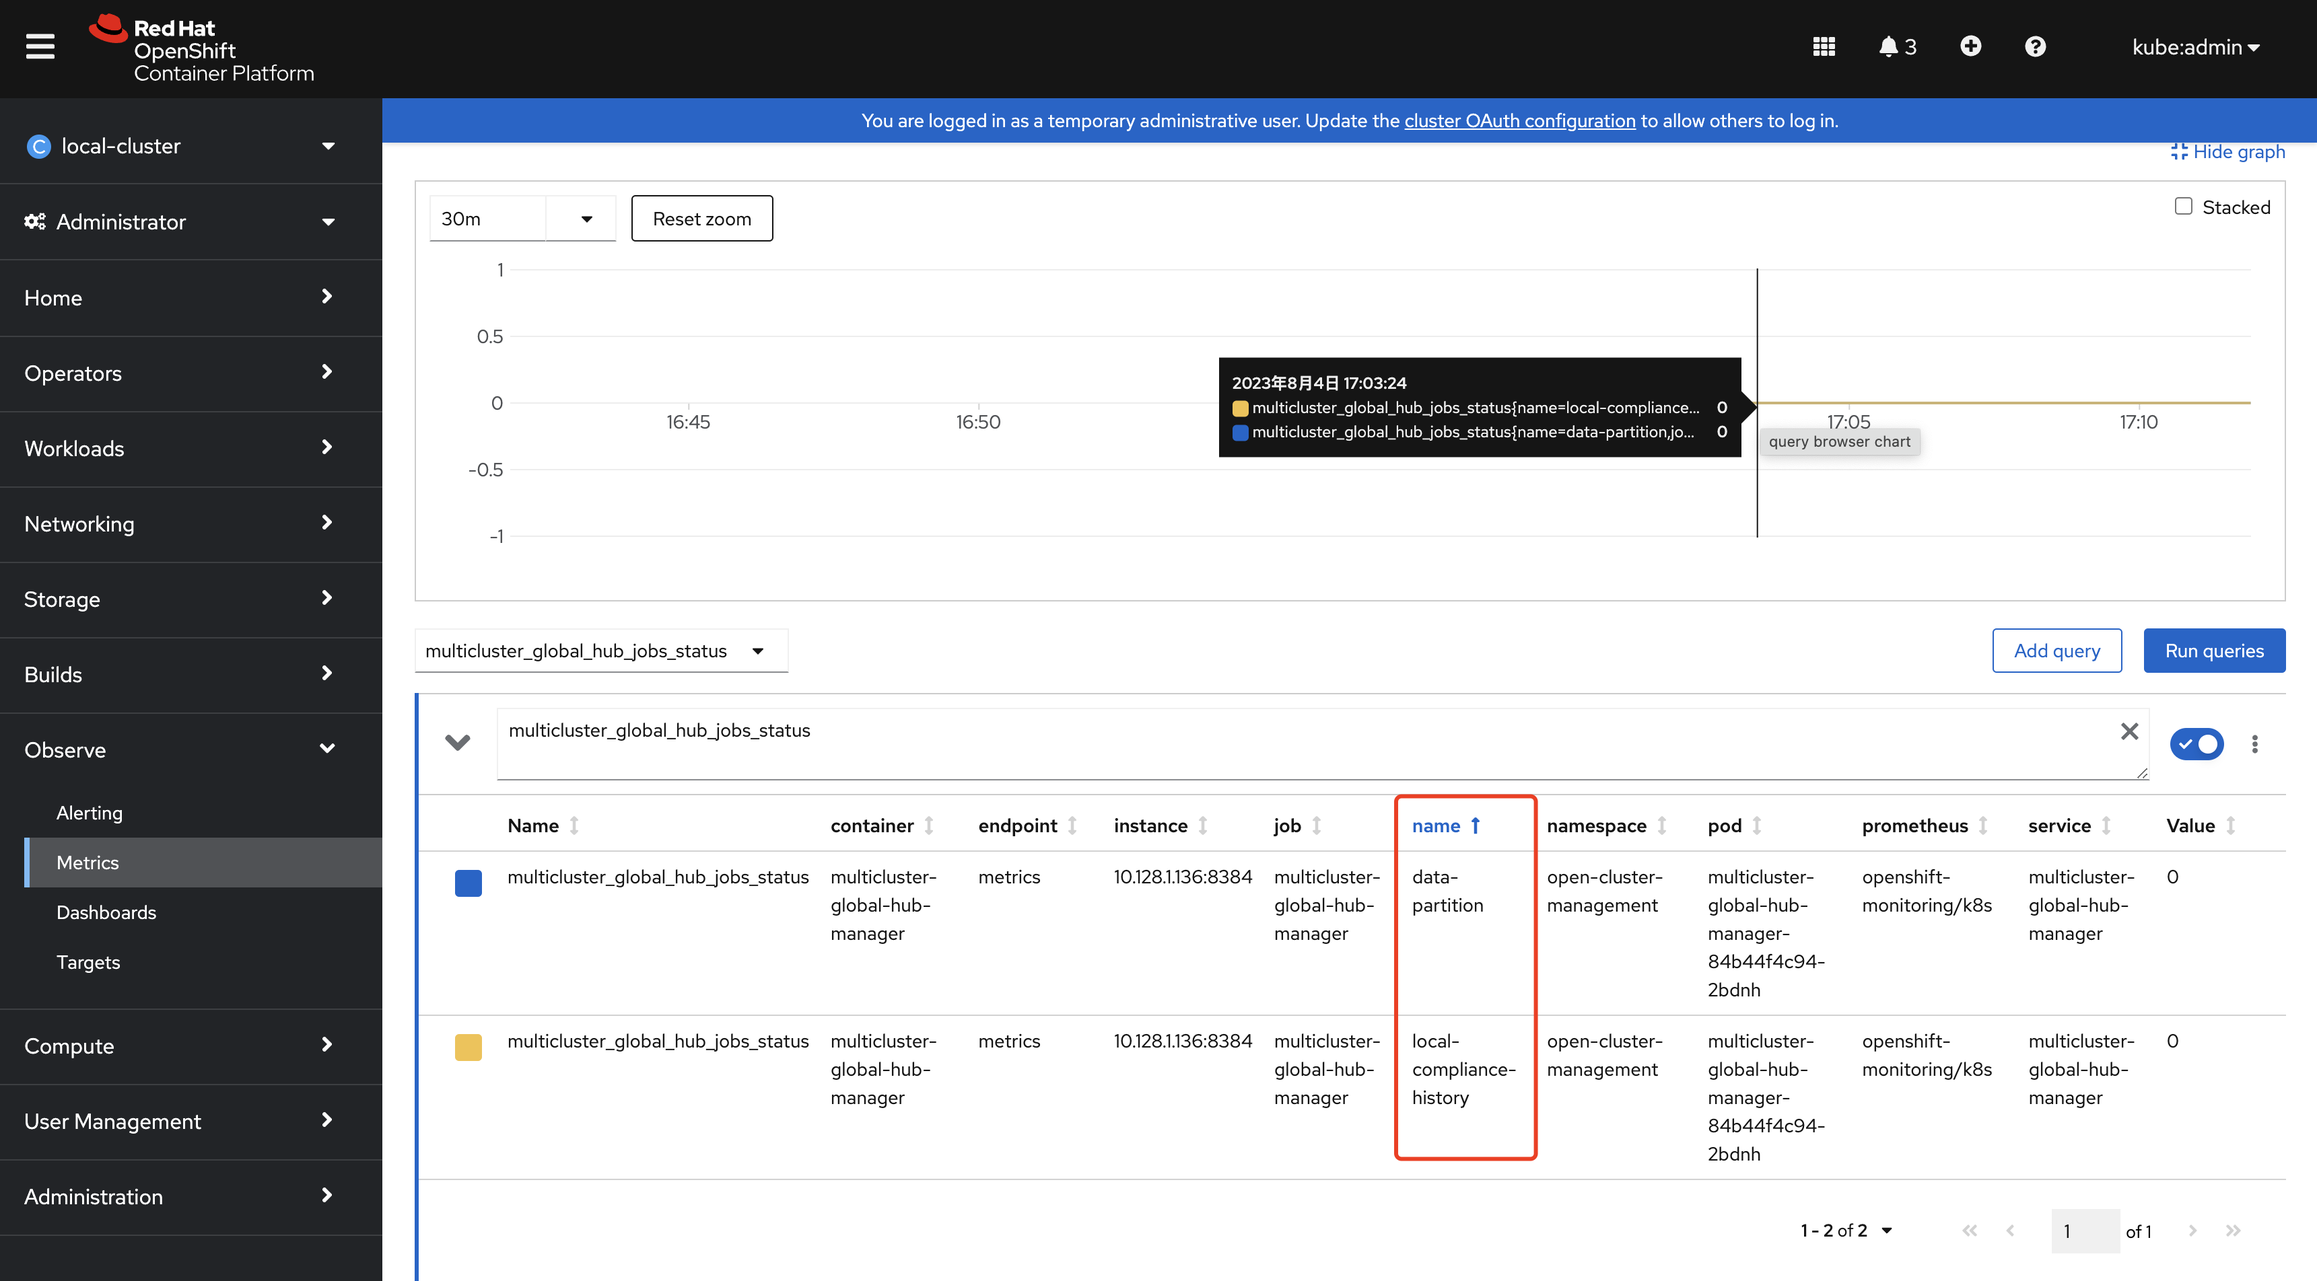
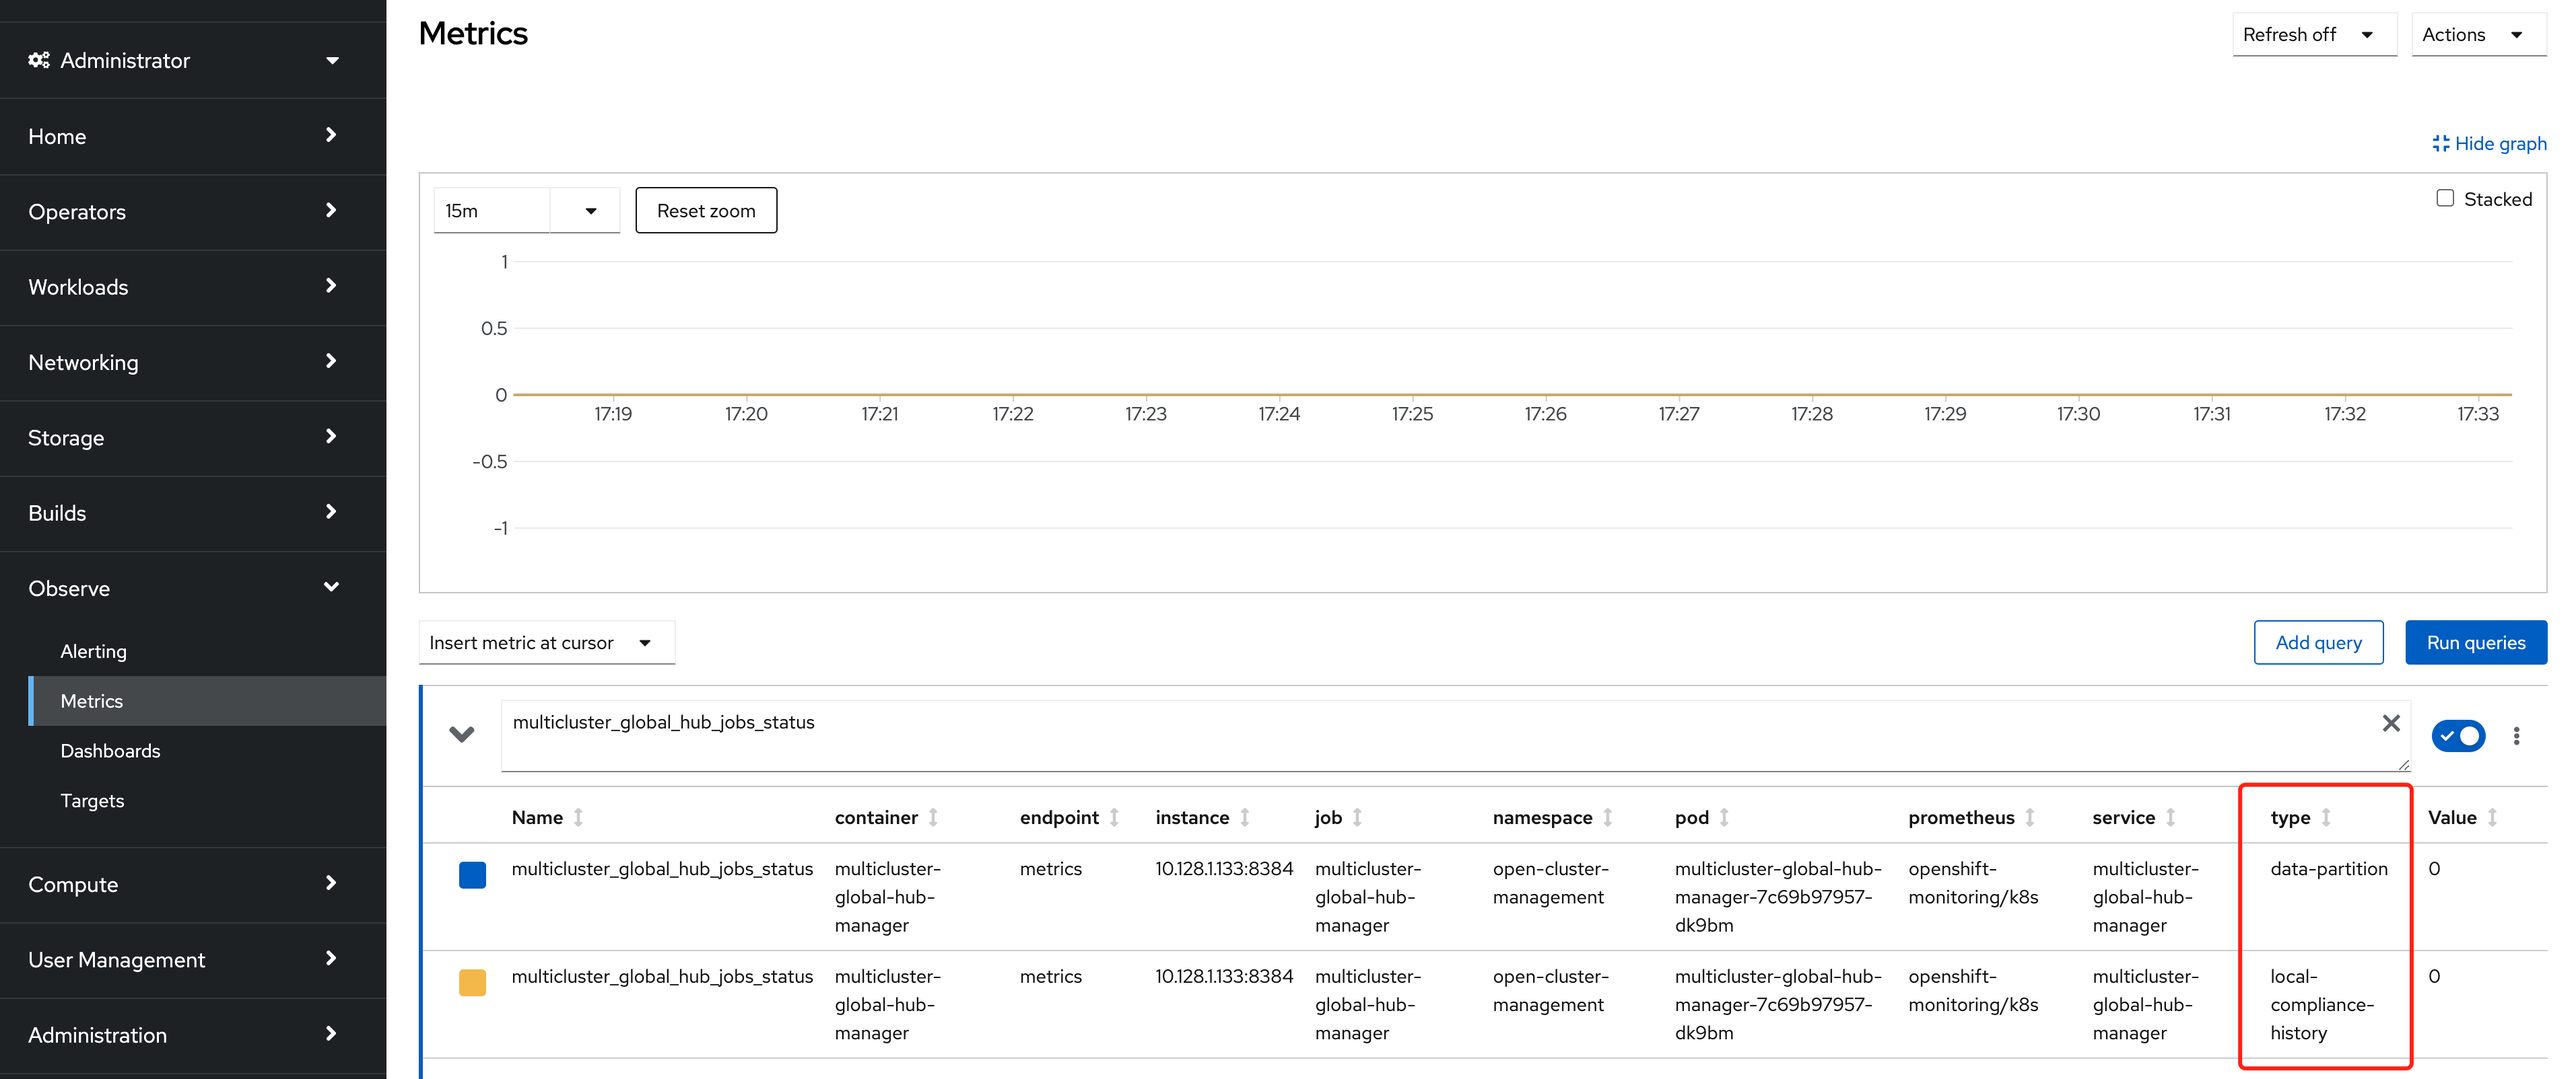
Rename the cronjob name to type (#582)
* rename the name of cronjob metrics

* split them into 2 panel

* ccombine in one panel

* rollback the doc

---------

diff --git a/manager/pkg/cronjob/task/local_compliance_history.go b/manager/pkg/cronjob/task/local_compliance_history.go
@@ -36,7 +36,7 @@ var (
 )
 
 func init() {
-	metrics.GlobalHubJobGauge.WithLabelValues(localComplianceTaskName).Set(0)
+	metrics.GlobalHubCronJobGaugeVec.WithLabelValues(localComplianceTaskName).Set(0)
 }
 
 func SyncLocalCompliance(ctx context.Context, pool *pgxpool.Pool, enableSimulation bool, job gocron.Job) {
@@ -57,9 +57,9 @@ func SyncLocalCompliance(ctx context.Context, pool *pgxpool.Pool, enableSimulati
 	var err error
 	defer func() {
 		if err != nil {
-			metrics.GlobalHubJobGauge.WithLabelValues(localComplianceTaskName).Set(1)
+			metrics.GlobalHubCronJobGaugeVec.WithLabelValues(localComplianceTaskName).Set(1)
 		} else {
-			metrics.GlobalHubJobGauge.WithLabelValues(localComplianceTaskName).Set(0)
+			metrics.GlobalHubCronJobGaugeVec.WithLabelValues(localComplianceTaskName).Set(0)
 		}
 	}()
 
@@ -85,7 +85,6 @@ func SyncLocalCompliance(ctx context.Context, pool *pgxpool.Pool, enableSimulati
 	var eventTotal, eventInsert int64
 	eventTotal, eventInsert, err = syncToLocalComplianceHistoryByPolicyEvent(ctx, pool, batchSize)
 	if err != nil {
-		metrics.GlobalHubJobGauge.WithLabelValues(localComplianceTaskName).Inc()
 		log.Error(err, "sync from history.local_policies to history.local_compliance failed")
 		return
 	}

diff --git a/manager/pkg/cronjob/task/data_partition.go b/manager/pkg/cronjob/task/data_partition.go
@@ -44,7 +44,7 @@ var (
 )
 
 func init() {
-	metrics.GlobalHubJobGauge.WithLabelValues(retentionTaskName).Set(0)
+	metrics.GlobalHubCronJobGaugeVec.WithLabelValues(retentionTaskName).Set(0)
 }
 
 func DataRetention(ctx context.Context, pool *pgxpool.Pool, retention time.Duration, job gocron.Job) {
@@ -53,9 +53,9 @@ func DataRetention(ctx context.Context, pool *pgxpool.Pool, retention time.Durat
 	var err error
 	defer func() {
 		if err != nil {
-			metrics.GlobalHubJobGauge.WithLabelValues(retentionTaskName).Set(1)
+			metrics.GlobalHubCronJobGaugeVec.WithLabelValues(retentionTaskName).Set(1)
 		} else {
-			metrics.GlobalHubJobGauge.WithLabelValues(retentionTaskName).Set(0)
+			metrics.GlobalHubCronJobGaugeVec.WithLabelValues(retentionTaskName).Set(0)
 		}
 	}()
 

diff --git a/manager/pkg/metrics/cronjob.go b/manager/pkg/metrics/cronjob.go
@@ -5,19 +5,19 @@ import (
 	"sigs.k8s.io/controller-runtime/pkg/metrics"
 )
 
-var GlobalHubJobGauge = prometheus.NewGaugeVec(
+var GlobalHubCronJobGaugeVec = prometheus.NewGaugeVec(
 	prometheus.GaugeOpts{
 		Name: "multicluster_global_hub_jobs_status",
 		Help: "The status of the job. 0 == success, 1 == failure.",
 	},
 	[]string{
-		"name", // The name of the job.
+		"type", // The name of the cronjob.
 	},
 )
 
 func init() {
 	// Register custom metrics with the global prometheus registry
 	metrics.Registry.MustRegister(
-		GlobalHubJobGauge,
+		GlobalHubCronJobGaugeVec,
 	)
 }
